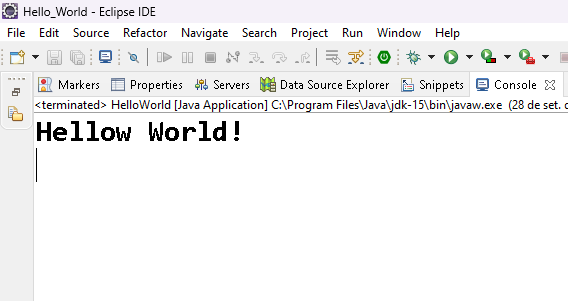
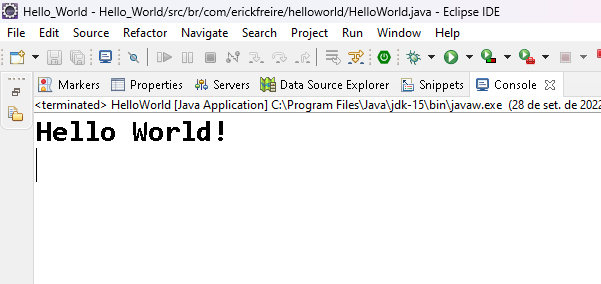
a
a

Changed region(s): [[0.0, 0.1408, 1.0, 0.507], [0.0, 0.0, 0.838, 0.1408], [0.0599, 0.5352, 0.0898, 0.5915]]

diff --git a/Hello_World/src/br/com/erickfreire/helloworld/HelloWorld.java b/Hello_World/src/br/com/erickfreire/helloworld/HelloWorld.java
@@ -8,7 +8,7 @@ package br.com.erickfreire.helloworld;
 
 public class HelloWorld {
 	public static void main(String[] args) {
-		System.out.println("Hellow World!");
+		System.out.println("Hello World!");
 	}
 
 }
